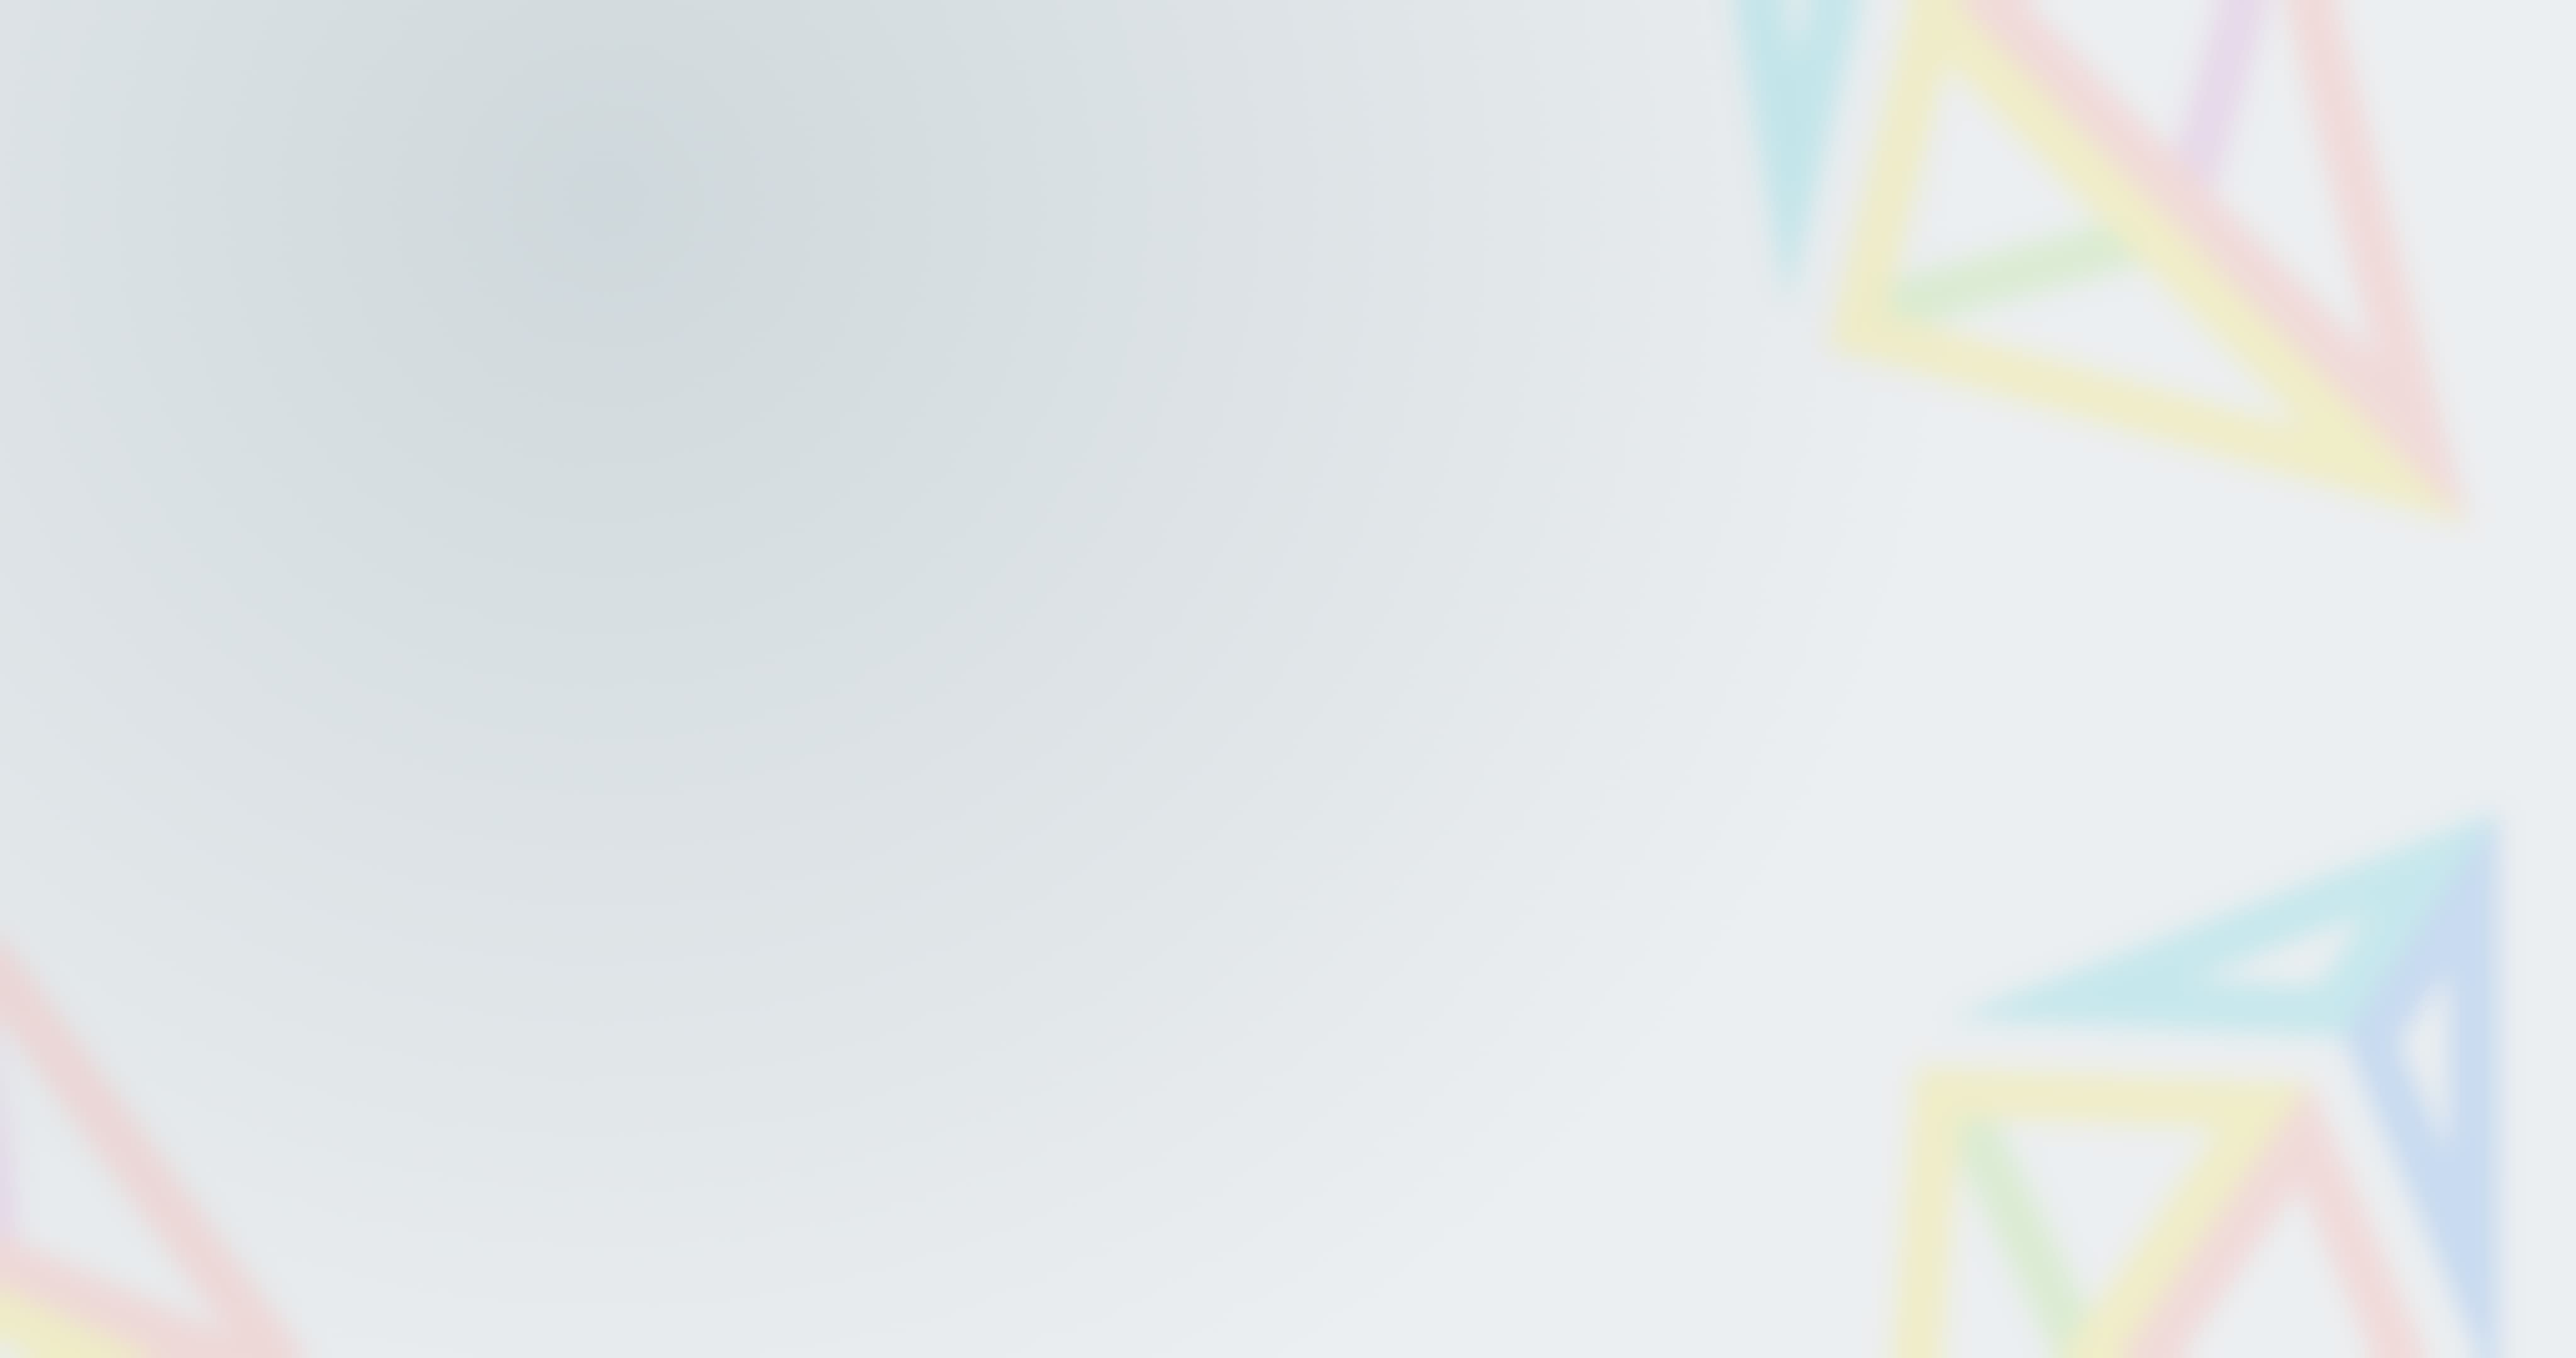
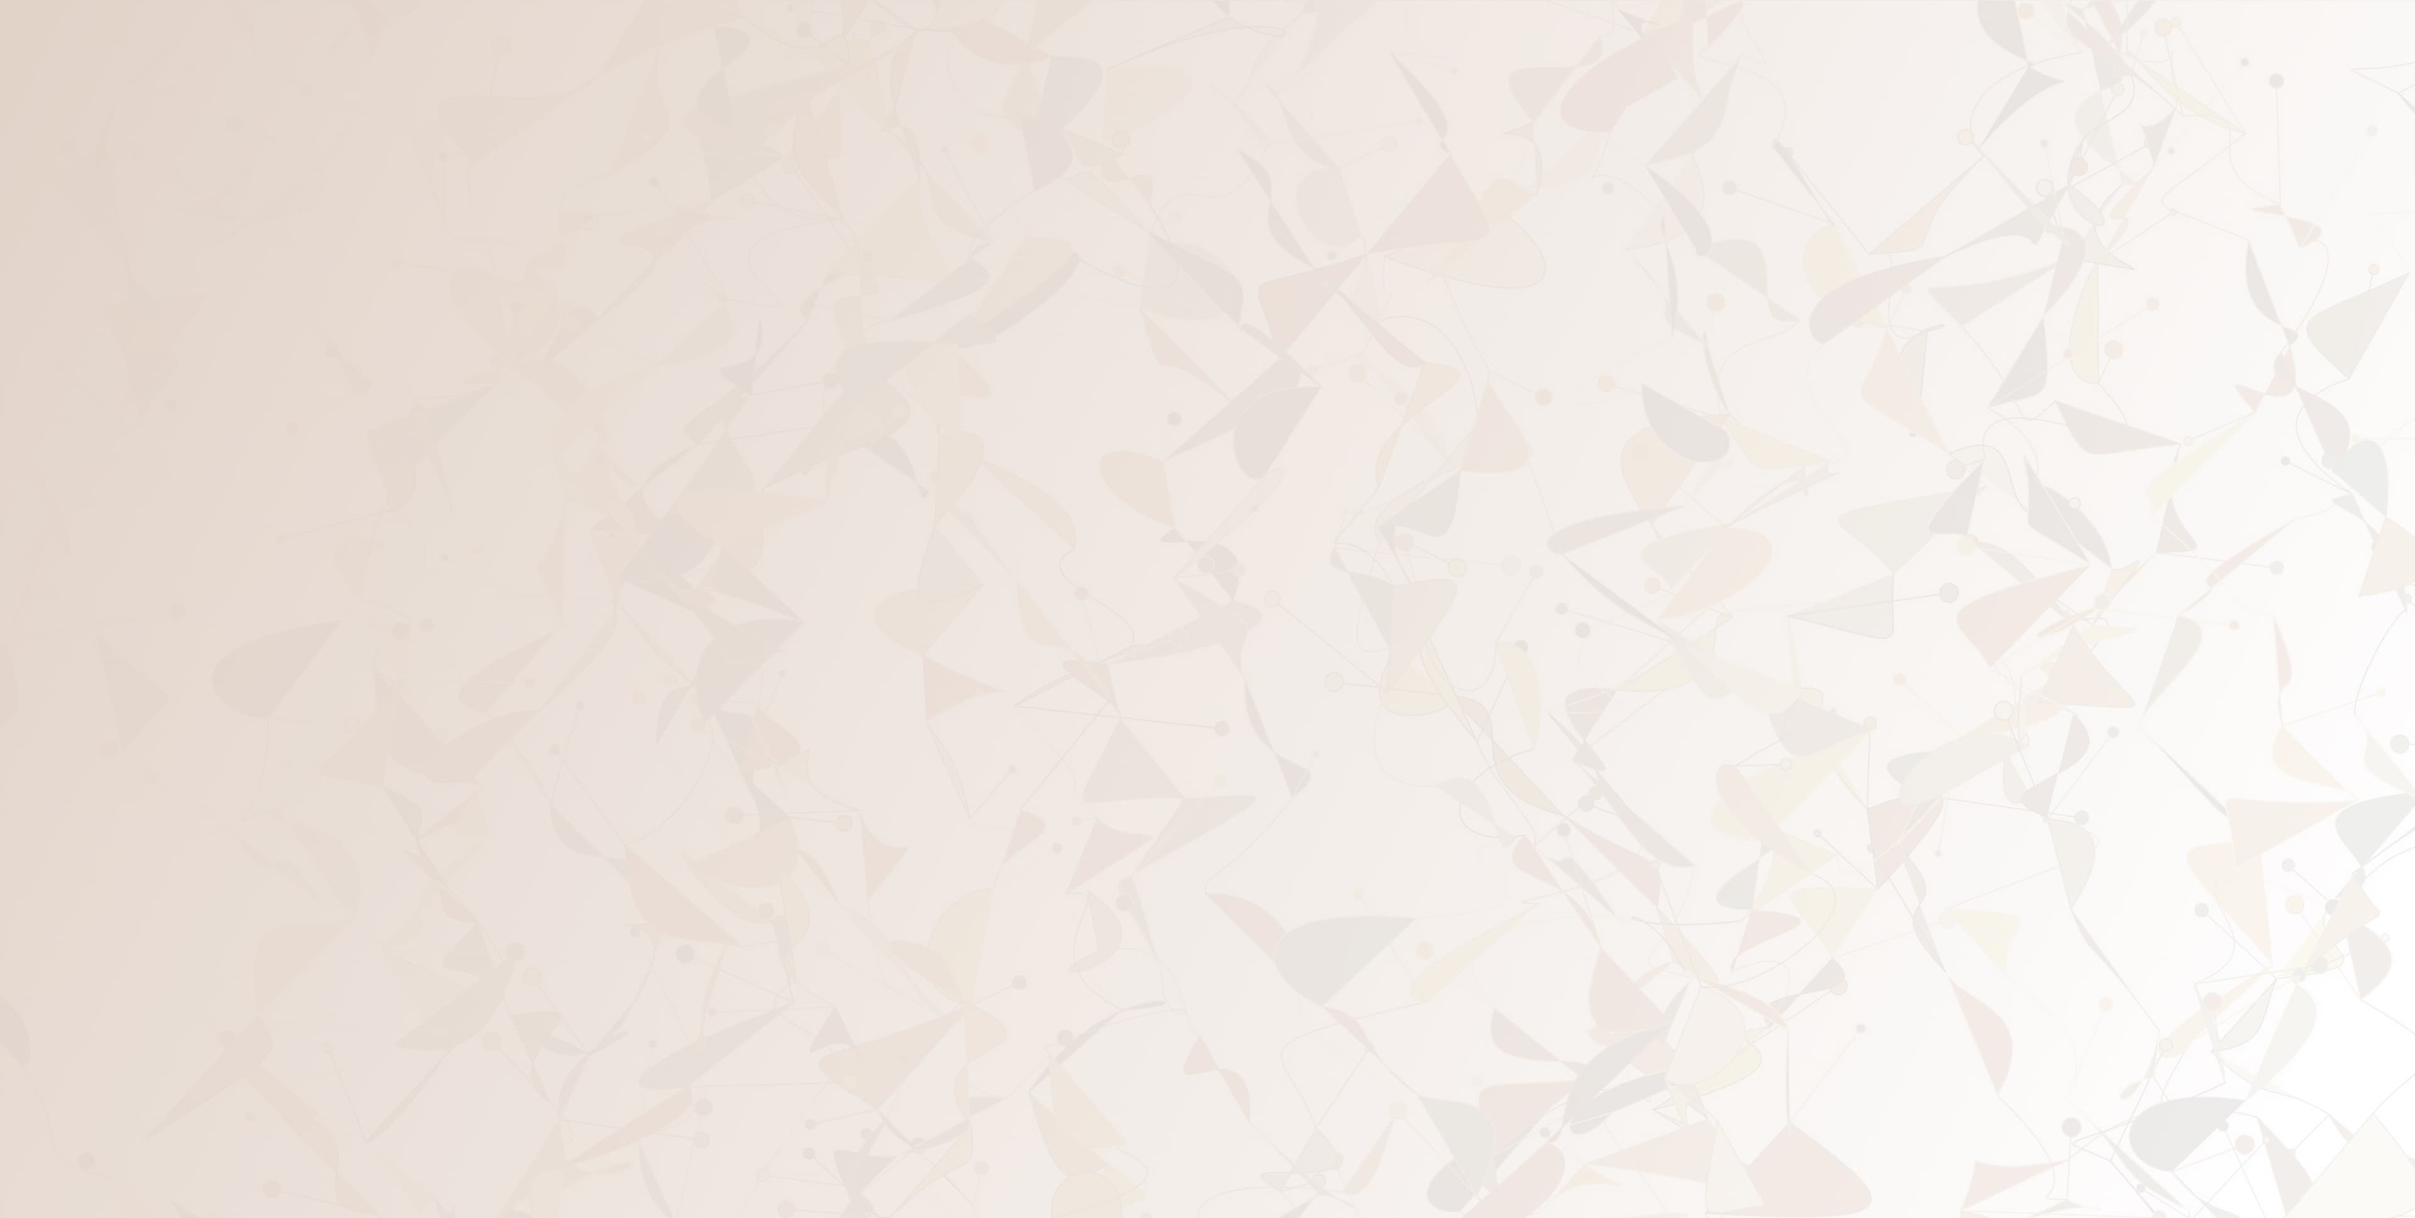
minor fixes, release 1.2

diff --git a/src/style/index.css b/src/style/index.css
@@ -25,6 +25,7 @@
   font-weight: normal;
   font-display: swap;
 }
+
 @font-face {
   font-family: "Source Serif Pro";
   src: url("SourceSerifPro-SemiBold.ttf") format("truetype");
@@ -33,7 +34,7 @@
 }
 
 html {
-  background: url(../assets/bg.jpg) no-repeat right top fixed;
+  background: url(../assets/bg.jpg) no-repeat center center fixed;
   background-size: cover;
 }
 
@@ -43,7 +44,7 @@ body {
   -webkit-font-smoothing: antialiased;
   -moz-osx-font-smoothing: grayscale;
   min-height: 100vh;
-  
+
 
   /* simple diamond pattern
   background-color: #ccc;
@@ -163,20 +164,21 @@ h6 {
 .eth {
   margin: auto;
   position: relative;
-/*
+  /*
   position: absolute;
   left: calc(50% - 10em / 2);
   top: calc(50% - 4em);
-*/  
+*/
   width: 10em;
   height: 10em;
   font-size: 0.22em;
 }
+
 .eth .top,
 .eth .bottom {
   width: 10em;
-  height: 10em; 
-  background: rgba(206,113,195, .9);
+  height: 10em;
+  background: rgba(206, 113, 195, .9);
   transform: rotateX(65deg) rotateZ(45deg);
   transform-style: preserve-3d;
   position: absolute;
@@ -206,7 +208,7 @@ h6 {
 .eth .top .right,
 .eth .bottom .right {
   border-left: 5em solid transparent;
-  border-right: 5em solid transparent; 
+  border-right: 5em solid transparent;
   border-bottom: 15em solid rgba(255, 156, 146, 0.5);
   transform-origin: bottom;
 }
@@ -217,7 +219,7 @@ h6 {
 .eth .bottom .down {
   transform-origin: bottom right;
   border-top: 5em solid transparent;
-  border-right: 15em solid rgba(255,233,77, 0.5);
+  border-right: 15em solid rgba(255, 233, 77, 0.5);
   border-bottom: 5em solid transparent;
   border-left: none;
   top: 0em;
@@ -253,18 +255,20 @@ h6 {
   left: 0;
   top: 0;
 }
+
 .eth .bottom {
   left: 0;
   top: 1.5em;
-  background: rgba(83,211,224, 0.9);
+  background: rgba(83, 211, 224, 0.9);
 }
+
 .eth .bottom .left,
-.eth .bottom .right { 
-  border-bottom: 15em solid rgba(136,216,72, 0.5);
+.eth .bottom .right {
+  border-bottom: 15em solid rgba(136, 216, 72, 0.5);
 }
 
 .eth .bottom .up,
-.eth .bottom .down { 
+.eth .bottom .down {
   border-right: 15em solid rgba(90, 157, 237, 0.5);
 }
 
@@ -288,6 +292,7 @@ h6 {
   from {
     transform: rotateX(65deg) rotateZ(0deg);
   }
+
   to {
     transform: rotateX(65deg) rotateZ(360deg);
   }

diff --git a/src/artworks/A035.js b/src/artworks/A035.js
@@ -69,7 +69,7 @@ const Artwork = (props) => {
   }
 
   function reset(p5) {
-    p5.background("#281A16");
+    p5.background("#FFFFFF");
   }
 
   const setup = (p5, canvasParentRef) => {
